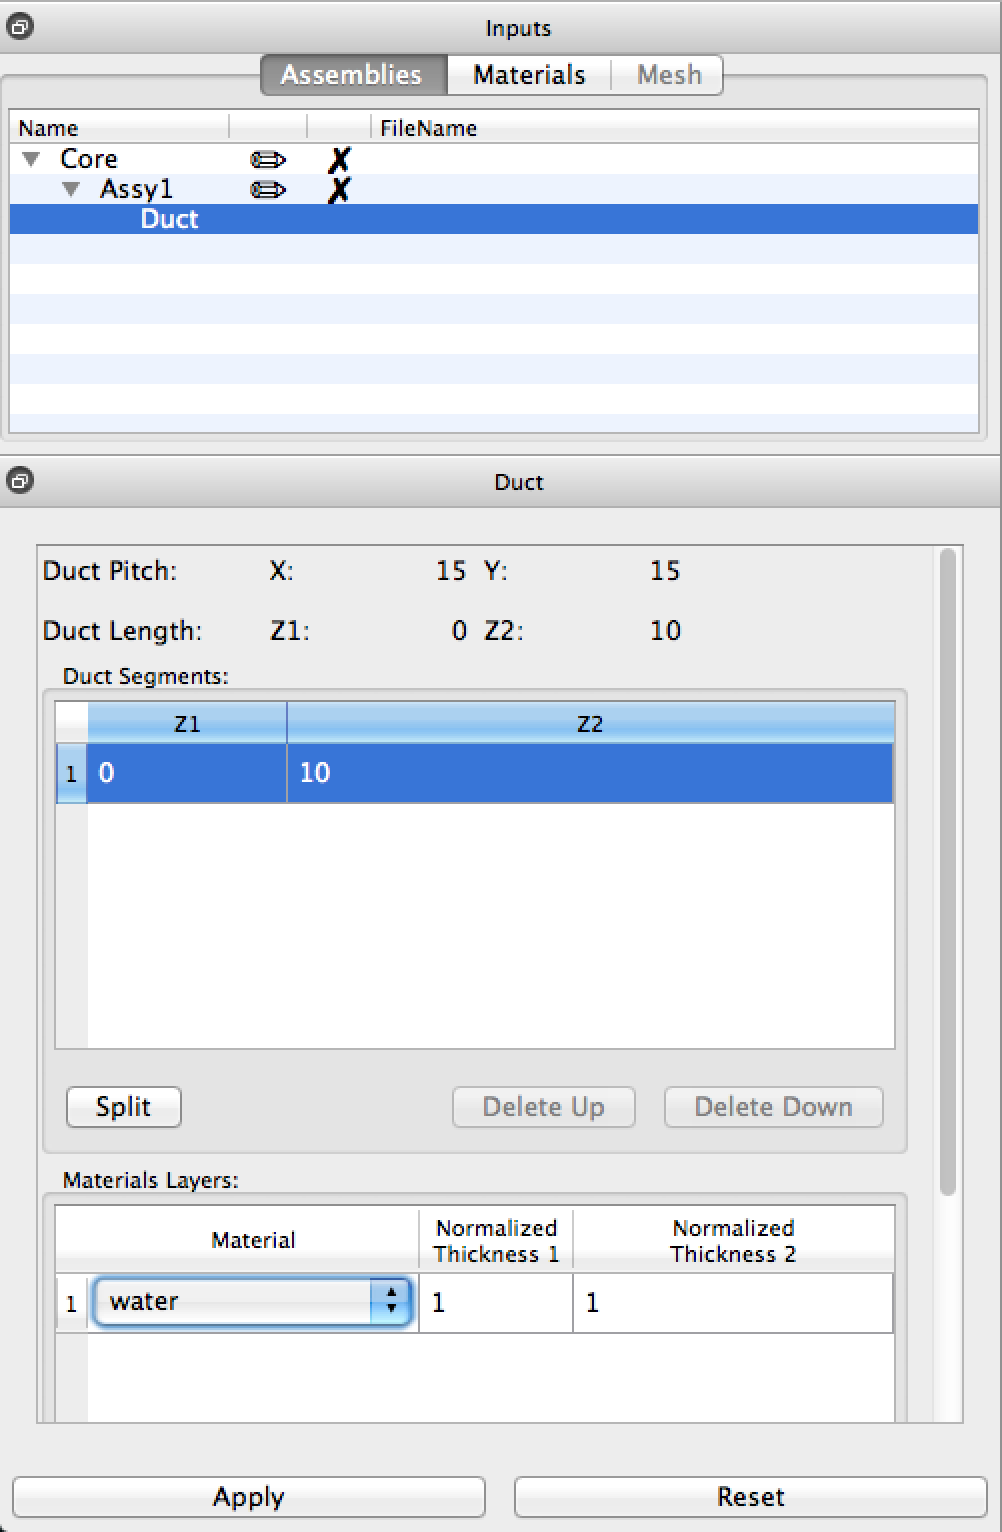
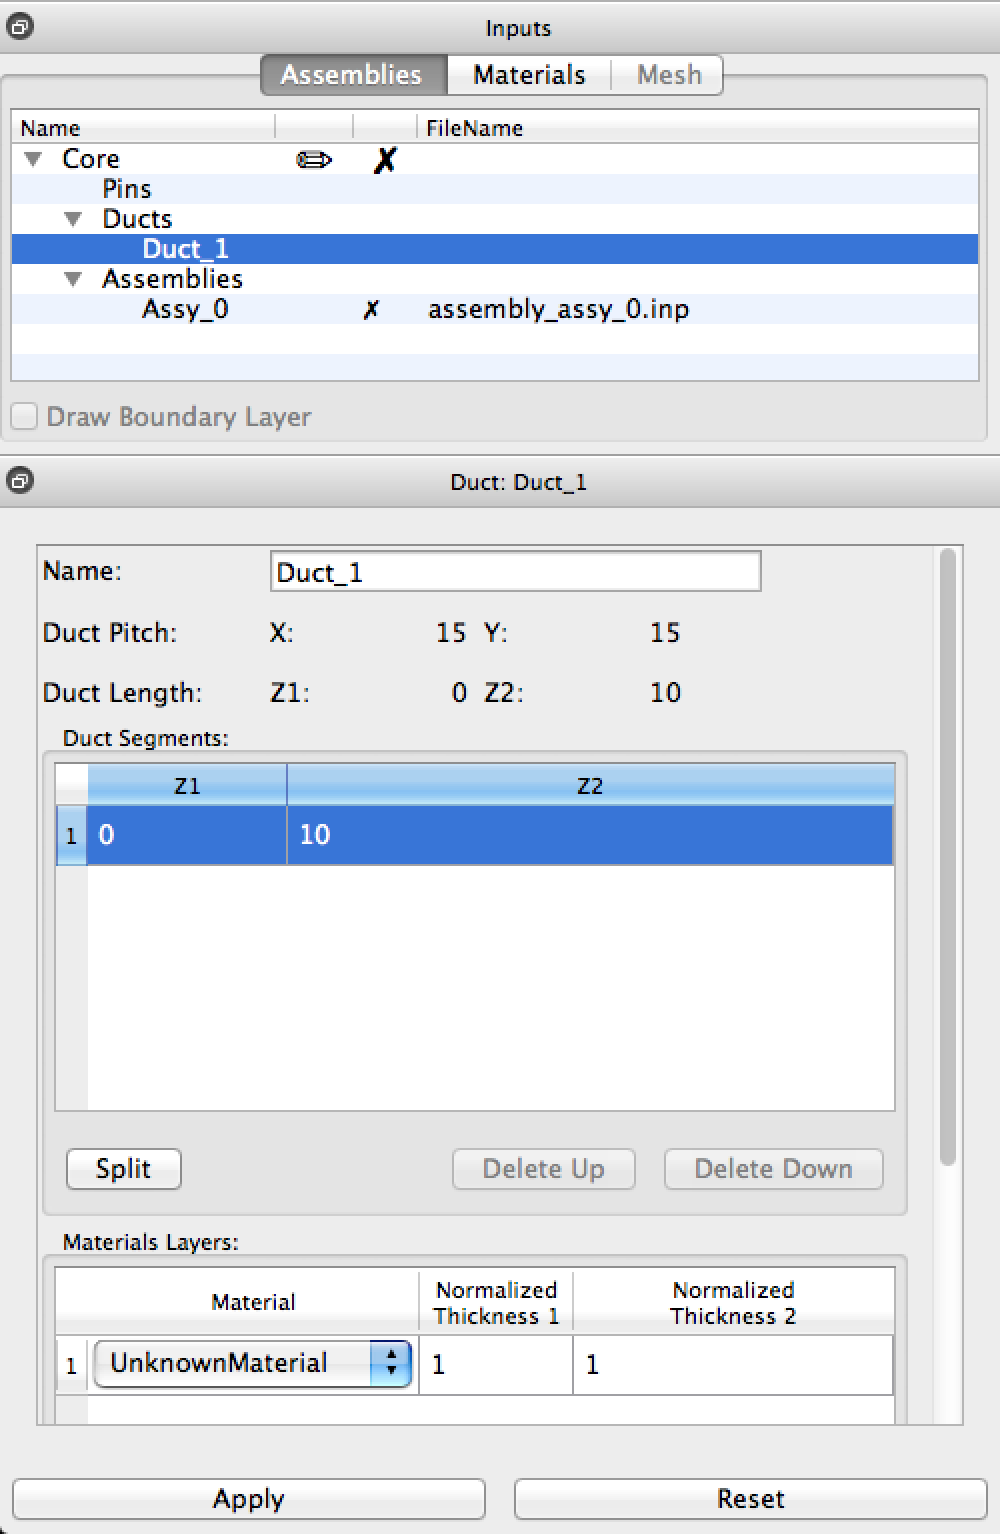
update documentation

diff --git a/Documentation/UsersGuide/BasicUIOverview.tex b/Documentation/UsersGuide/BasicUIOverview.tex
@@ -15,7 +15,7 @@ All user interaction takes place within the main window.  The main window is com
 The \ui{input panel} has three tabs: the \ui{assemblies tab}, the \ui{materials tab}, and the \ui{mesh tab}.
 
 \subsubsection{Assemblies Tab}
-The \ui{assemblies tab} shows the hierarchal nature of the core, assemblies, pins and ducts.  Recall that a core is composed of assemblies which are placed in the core's lattice, and that these assemblies are in turn composed of pins and ducts that are placed in the assembly lattice.
+The \ui{assemblies tab} shows the hierarchal nature of the core, assemblies, pins and ducts.  Recall that a core is composed of assemblies which are placed in the core's lattice, and that these assemblies are in turn composed of pins and ducts that are placed in the assembly lattice.  When 
 
 \begin{figure}[H]
 	\begin{center}
@@ -57,17 +57,13 @@ The \ui{properties panel} changes depending on the current state of the input pa
 
 \begin{itemize}
 	\item{If you're clicking on a core, it will display three tabs: the \ui{lattice tab}, the \ui{configure tab}, and the \ui{assembly defaults tab}.}
-	\item{If you're clicking on an assembly, it will display the \ui{lattice tab} and \ui{configure tab}, and the \ui{defaults tab} (not to be confused with the assembly defaults tab).  Note that the assembly has a different \ui{latticeSe tab} and \ui{configure tab} from the core.}
+	\item{If you're clicking on an assembly, it will display the \ui{lattice tab} and \ui{configure tab}.  Note that the assembly has a different \ui{lattice tab} and \ui{configure tab} from the core.}
 	\item{If you're clicking on a duct, it will display the \ui{duct tab}.}
 	\item{If you're clicking on a pin, it will display the \ui{pin tab}.}
 \end{itemize}
 
-\begin{commonerrors}
-	The \ui{assembly defaults tab} controls global settings for assemblies.  As such, it's displayed when clicking on the core in the \ui{assemblies tab}.  The \ui{defaults tab} controls settings on a per-assembly basis; it's found when clicking on an assembly in the \ui{assemblies tab}.
-\end{commonerrors}
-
 \subsubsection{Lattice Tab}
-The \ui{lattice tab} controls the number of layers (in a hexagonal core) or the dimensions (in a rectilinear core) to get the desired lattice geometry.  For assemblies, there is a checkbox to allow for auto-centering the pins.  Also for assemblies, this tab controls the \ui{2D view} color and label.  See Figure \ref{fig:latticetab}.
+The \ui{lattice tab} controls the number of layers (in a hexagonal core) or the dimensions (in a rectilinear core) to get the desired lattice geometry.  For cores, it also controls the \ui{Reactor Vessel} and \ui{Boundary Layer}s.  For assemblies, there is a checkbox to allow for auto-centering the pins.  Also for assemblies, this tab controls the \ui{2D view} color and label.  There is also controls for assembly rotation and the \ui{duct} used.  See Figure \ref{fig:latticetab}.
 
 \begin{figure}
 \centering
@@ -91,13 +87,8 @@ The \ui{lattice tab} controls the number of layers (in a hexagonal core) or the 
 \subsubsection{Configure Tab}
 This tab allows you to customize other meshing parameters from MeshKit files which are not currently provided an interface in the GUI. See Chapter \ref{chapter:Meshing} for information on how to mesh your core.
 
-When building a full hexagonal core, $\frac{1}{6}$ flat hexagonal core, or a $\frac{1}{12}$ hexagonal core you should include a rotation of $30^\circ$ in each assembly to prevent assemblies from overlapping each other, as shown in \ref{fig:configuretab}.  See more on this in Section \ref{section:RotateAssembly30}.
-
 \subsubsection{Assembly Defaults Tab}
 The \ui{assembly defaults tab} allows you to specify general meshing information.  You can set whether the mesh you want to generate will be tetrahedral or hexahedral, and also change the default dimensions of the ducts comprising your core.  Changing these values will propagate all the way down to every component, so you can change it all in one place instead of adjusting the height of every duct in every assembly.
-
-\subsubsection{Defaults Tab}
-The \ui{defaults tab} allows you to configure the pitch of the assembly.  You can either specify it manually or calculate it using the \ui{calculate button}.
 
 \subsubsection{Duct Tab}
 The \ui{duct tab} exposes the different configuration options for a duct piece.  You can change the position and dimensional settings towards the top, the duct pitch, and the duct material (with associated normalized thickness, if desired).
@@ -133,7 +124,7 @@ Similar to the \ui{properties panel}, the \ui{3D view} changes depending on what
 \subsection{2D View}
 The \ui{2D view} (Figure ~\ref{fig:2DView}) provides a 2d schematic of the core or assembly depending which is selected. Each assembly or pin represented here will be filled with its corresponding key color.
 
-You can edit this information by specifying , and then right-click on each cell to select the desired assembly or pin.  Alternatively, you can drag and drop an existing component onto the cell.
+You can edit this information by moving you mouse over the cell you want to edit and then right-click on each cell to select the desired assembly or pin.  In the pop-up menu, there are options to \ui{Replace All With} and \ui{Fill Ring With}. \ui{Replace All With} replaces every cell that is same component with the desired assembly or pin.  \ui{Fill Ring With} fills every cell in the ring with the desired assembly or pin.  Alternatively, you can drag and drop an existing component onto the cell.
 
 \begin{figure}[h]
 	\begin{center}

diff --git a/Documentation/UsersGuide/ExampleBuildingAHexagonalCore.tex b/Documentation/UsersGuide/ExampleBuildingAHexagonalCore.tex
@@ -14,7 +14,7 @@ First, we'll need to create a new hexagonal core.
 	\end{center}
 \end{figure}
 
-The two panels on the left of the application will change along with the 2D and 3D views.  We'll now see that the inputs panel contains an item named ``Core" with a subitem ``Assy1."  The core panel should show a hexagon labeled ``Assy1."  The 2D and 3D view will contain the initial core. Confirm that your application looks similar to what's shown in Figure \ref{fig:Hex2}.
+The two panels on the left of the application will change along with the 2D and 3D views.  We'll now see that the inputs panel contains an item named ``Core" with a subitem ``Assy\_0."  The core panel should show a hexagon labeled ``Assy\_0."  The 2D and 3D view will contain the initial core. Confirm that your application looks similar to what's shown in Figure \ref{fig:Hex2}.
 
 \begin{figure}[H]
 	\begin{center}
@@ -44,41 +44,7 @@ Be sure to click the apply button below to see apply changes.
 	\end{center}
 \end{figure}
 
-\section{Configuring the Assembly}
-\label{section:RotateAssembly30}
-We need to configure the hexagonal ducts and pins we'll create to be rotated by 30 degrees to avoid interference from the different cells.  To do this, first ensure that you're clicking on the assembly we created, as shown in Figure \ref{fig:Hex15}.
-
-\begin{figure}[H]
-	\begin{center}
-		\includegraphics[width=0.5\linewidth]{Images/hex-select-assy1.png}
-		\caption{Clicking on our assembly.}
-		\label{fig:Hex15}
-	\end{center}
-\end{figure}
-
-Then, we need to click on the configure tab in the lower panel, and scroll down to the section labeled transform.  Click the Add Rotation button.
-
-\begin{figure}[H]
-	\begin{center}
-		\includegraphics[width=0.5\linewidth]{Images/hex-rotation-area.png}
-		\caption{Assembly transformations.}
-		\label{fig:Hex16}
-	\end{center}
-\end{figure}
-
-We need to change this rotation to be 30 degrees.  Enter 30 as shown in Figure \ref{fig:Hex17}.
-
-\begin{figure}[H]
-	\begin{center}
-		\includegraphics[width=0.5\linewidth]{Images/hex-rotate-30.png}
-		\caption{Adding the 30 degree transformation.}
-		\label{fig:Hex17}
-	\end{center}
-\end{figure}
-
-As always, please click Apply to make sure that your changes are saved.
-
-\subsection{Configuring Duct}
+\section{Configuring Duct}
 
 We now need to configure the duct.  In the inputs panel, select the duct.   This will change the lower panel to show the materials of the duct control panel.  Next select the only segment in the ``Duct Segment" table.  This will populate the ``Material Layers."   For this duct, we'll stay simple and make the material water.  Change the material type to water by clicking the drop-down and selecting ``water."
 
@@ -159,7 +125,9 @@ We should see a screen like Figure ~\ref{fig:Hex14} the after we're done.
 	\end{center}
 \end{figure}
 
-Next, we need to add this pin to our assembly lattice.  Make sure you select ``Assy1" in the inputs menu.  Click the lattice tab in the lower panel, and right click on the hexagon to bring up a list of available pins.  Select our pin (Figure ~\ref{fig:Hex18}).
+\section{Populating assembly with our pin}
+
+Next, we need to add this pin to our assembly lattice.  Make sure you select ``Assy\_0" in the inputs menu.  Click the lattice tab in the lower panel, and right click on the hexagon to bring up a list of available pins.  Select our pin (Figure ~\ref{fig:Hex18}).
 
 \begin{figure}[H]
 	\begin{center}
@@ -173,7 +141,7 @@ Click the apply button to save your changes.
 
 \section{Populating core with our assembly}
 
-Click on our assembly (``Assy1") in the inputs pane.  In the lower pane, click on the lattice tab.  To add the assembly to any of the cells, right click to bring up a list of available assemblies, and then click on the assembly you'd like (Figure ~\ref{fig:Hex19}).
+Click on our assembly (``Assy\_0") in the inputs pane.  In the lower pane, click on the lattice tab.  To add the assembly to any of the cells, right click to bring up a list of available assemblies, and then click on the assembly you'd like (Figure ~\ref{fig:Hex19}).
 
 \begin{figure}[H]
 	\begin{center}
@@ -183,7 +151,7 @@ Click on our assembly (``Assy1") in the inputs pane.  In the lower pane, click o
 	\end{center}
 \end{figure}
 
-We'll select Assy1 because that's the name of the assembly we'd like.  Make sure to click the apply button to make sure that the changes we've made are applied.  Your screen should look like Figure  ~\ref{fig:Hex20} when you're done.
+We'll select Assy\_0 because that's the name of the assembly we'd like.  In this case, we want to replace all remaining empty cells with Assy\_0, so we use the \ui{Replace All With}. Make sure to click the apply button to make sure that the changes we've made are applied.  Your screen should look like Figure  ~\ref{fig:Hex20} when you're done.
 
 \begin{figure}[H]
 	\begin{center}

diff --git a/Documentation/UsersGuide/ExampleBuildingARectangularCore.tex b/Documentation/UsersGuide/ExampleBuildingARectangularCore.tex
@@ -30,7 +30,7 @@ Now, to adjust the size of the duct, select the "\ui{Assembly Defaults}" tab in 
 \label{fig:SetRectDuctDem}
 \end{wrapfigure}
 
-Next adjust the material of the \ui{Duct}.  In the \ui{Inputs Panel}, select the \ui{Duct}.  Then, in the Duct's \ui{Properties Panel}[Duct], select the first Duct Segment.  This populates Material Layers with the Duct Segments materials.  Now, select water in the material drop down box drop (~\ref{fig:rectSetMaterial}).  Then press Apply.  The result should look like ~\ref{fig:rectDuctResult}.
+Next adjust the material of the \ui{Duct}.  In the \ui{Inputs Panel}, select the \ui{Duct}, in this case Duct\_1.  Then, in the Duct's \ui{Properties Panel}[Duct], select the first Duct Segment.  This populates Material Layers with the Duct Segments materials.  Now, select water in the material drop down box drop (~\ref{fig:rectSetMaterial}).  Then press Apply.  The result should look like ~\ref{fig:rectDuctResult}.
 
 \begin{figure}
 \centering
@@ -49,6 +49,11 @@ Next adjust the material of the \ui{Duct}.  In the \ui{Inputs Panel}, select the
 \caption{Finished water duct.}
 \label{fig:test}
 \end{figure}
+
+\begin{commonerrors}
+	When finishing editing properties, make sure to hit 
+	apply before switch to another component in the Assemblies tab.
+\end{commonerrors}
 
 \clearpage
 
@@ -76,7 +81,7 @@ Choose the dimensions of the pin to correspond to the dimensions of your duct.  
 \end{center}
 \end{figure}
 
-Changing the key color and label is recommended, because later this will make the fuel pin more recognizeable while organizing the assembly.
+Changing the key color and label is recommended, because later this will make the fuel pin more recognizable while organizing the assembly.
 
 \begin{wrapfigure}{r}{0.5\textwidth}
   \begin{center}
@@ -106,7 +111,7 @@ Refer to ~\ref{fig:Rect7} for the final product.
 \clearpage
 \subsection{Adding Fuel Pins to the Assembly}
 
-Now we want to add the pins we've created back to the assembly.  Click back on ``Assy 1'' in the assemblies view in order to see the assembly layout.  You should once again be able to see the water duct you created, and it should still be empty.  Compare your view with ~\ref{fig:Rect8}.
+Now we want to add the pins we've created back to the assembly.  Click back on ``Assy\_0'' in the assemblies view in order to see the assembly layout.  You should once again be able to see the water duct you created, and it should still be empty.  Compare your view with ~\ref{fig:Rect8}.
 
 \begin{figure}
 \centering
@@ -124,7 +129,7 @@ Now we want to add the pins we've created back to the assembly.  Click back on `
 \end{minipage}
 \end{figure}
 
-Right click on each square and choose which pin to assign to it.  Alternatively, you can drag and drop pins already placed onto new squares.
+Right click on each square and choose which pin to assign to it.  For the fuel rod, we want it to fill the center ring, so we select fuel in \ui{Fill Ring With}.  Alternatively, you can drag and drop pins already placed onto new squares.
 
 In the end you should end up with something like ~\ref{fig:Rect10}.
 

diff --git a/Documentation/UsersGuide/ConceptualOverviewAndTerminology.tex b/Documentation/UsersGuide/ConceptualOverviewAndTerminology.tex
@@ -10,9 +10,13 @@ The highest-level unit that RGG constructs is the core itself.  Cores can have e
 \toIndex{Assemblies}
 As stated above, assemblies comprise cores.  Assemblies specify an arrangement of pins and ducts on their own lattice.  Think of assemblies as a configuration or specification of pins and ducts.
 
+\subsection{Same As Assembly}
+\toIndex{SameAsAssembly}
+There are times where the user want to have an assembly with different material set and Neumann set start ids.  This is accomplished by a Same As Assembly, which links the desired assembly with the slightly different parameters.
+
 \subsection{Pins}
 \toIndex{Pins}
-Pins are cylinders or frustrums that model fuel pins, control rods, and the like.  They have a name, a label, a material or set of materials, and other diverse properties.
+Pins are cylinders or frustums that model fuel pins, control rods, and the like.  They have a name, a label, a material or set of materials, and other diverse properties.
 
 \subsection{Ducts}
 \toIndex{Ducts}

diff --git a/Documentation/UsersGuide/HowToMesh.tex b/Documentation/UsersGuide/HowToMesh.tex
@@ -1,6 +1,6 @@
-\section{Generating a Mesh from an INP file}
+\section{Generating a Mesh}
 
-Now that the system preferences have been adjusted to include AssyGen, Cubit, and CoreGen, you can generate a mesh by opening an INP file and though the \ui{Run MeshKit RGG dialog} accessed through the \ui{tools menu}.  Note the ``x" icon in the third column of the assemblies and core in the \ui{inputs panel}.  This designates that RGG believes that these components need to be meshed.
+Now that the system preferences have been adjusted to include AssyGen, Cubit, and CoreGen, you can generate a mesh  though the \ui{Run MeshKit RGG dialog} accessed through the \ui{tools menu}.  Note the ``x" icon in the third column of the assemblies and core in the \ui{inputs panel}.  This designates that RGG believes that these components need to be meshed.
 
 \begin{figure}[H]
 	\begin{center}

diff --git a/Documentation/UsersGuide/FileFormat.tex b/Documentation/UsersGuide/FileFormat.tex
@@ -1,0 +1,3 @@
+\section{File Formats}
+
+RGG uses its on xml based file format, \ui{RXF}.  It allows to maintain states not stored in Meshkit's \ui{INP} file format.  However, RGG can import \ui{INP} files through by \ui{File} $\rightarrow$ \ui{Import} $\rightarrow$ \ui{INP File}.  RGG can also export \ui{INP} files by \ui{File} $\rightarrow$ \ui{Export} $\rightarrow$ \ui{Inp Files}.  At the time of mesh generation, the user will be asked for a directory if the \ui{INP} files have not been exported yet.

diff --git a/Documentation/UsersGuide/RGGUsersGuide.tex b/Documentation/UsersGuide/RGGUsersGuide.tex
@@ -99,6 +99,7 @@
 
 \chapter{Meshing}
 \label{chapter:Meshing}
+\include{FileFormat}
 \include{WhatMakesAGoodMesh}
 \include{InterfacingWithMeshKitToolsAndCubit}
 \include{HowToMesh}
